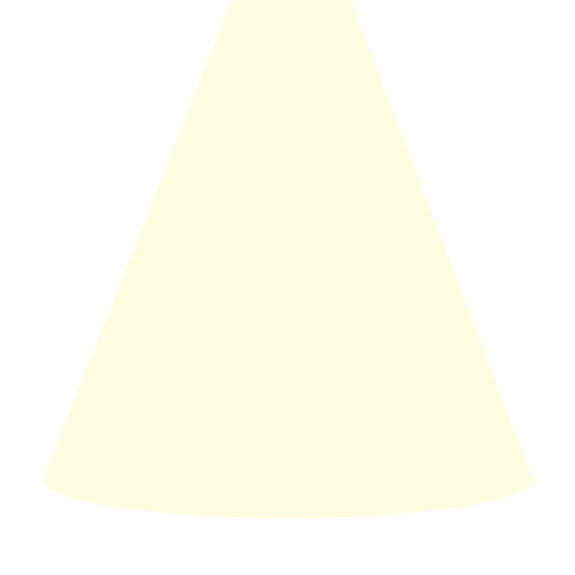
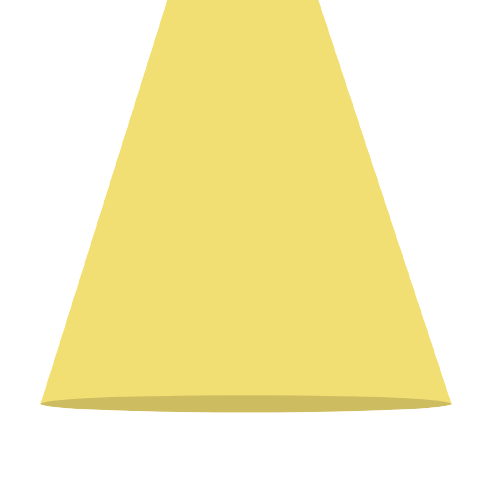
spotlight changes

diff --git a/app.css b/app.css
@@ -163,6 +163,7 @@ footer p{
 
 #spotlight{
   width: auto;
+  opacity: 92%;
 }
 
 
@@ -172,6 +173,7 @@ footer p{
   color: #772432;
   font-size: 317px;
   font-weight: 700;
+  margin-top: 8.5%;
   z-index: 9;
   cursor: pointer;
 }

diff --git a/contactus.html b/contactus.html
@@ -66,6 +66,7 @@
             <h2>Find us here</h2>
             <hr>
             <div id="map"></div>
+            <div id="mapid"></div>
           </div>
           
           
